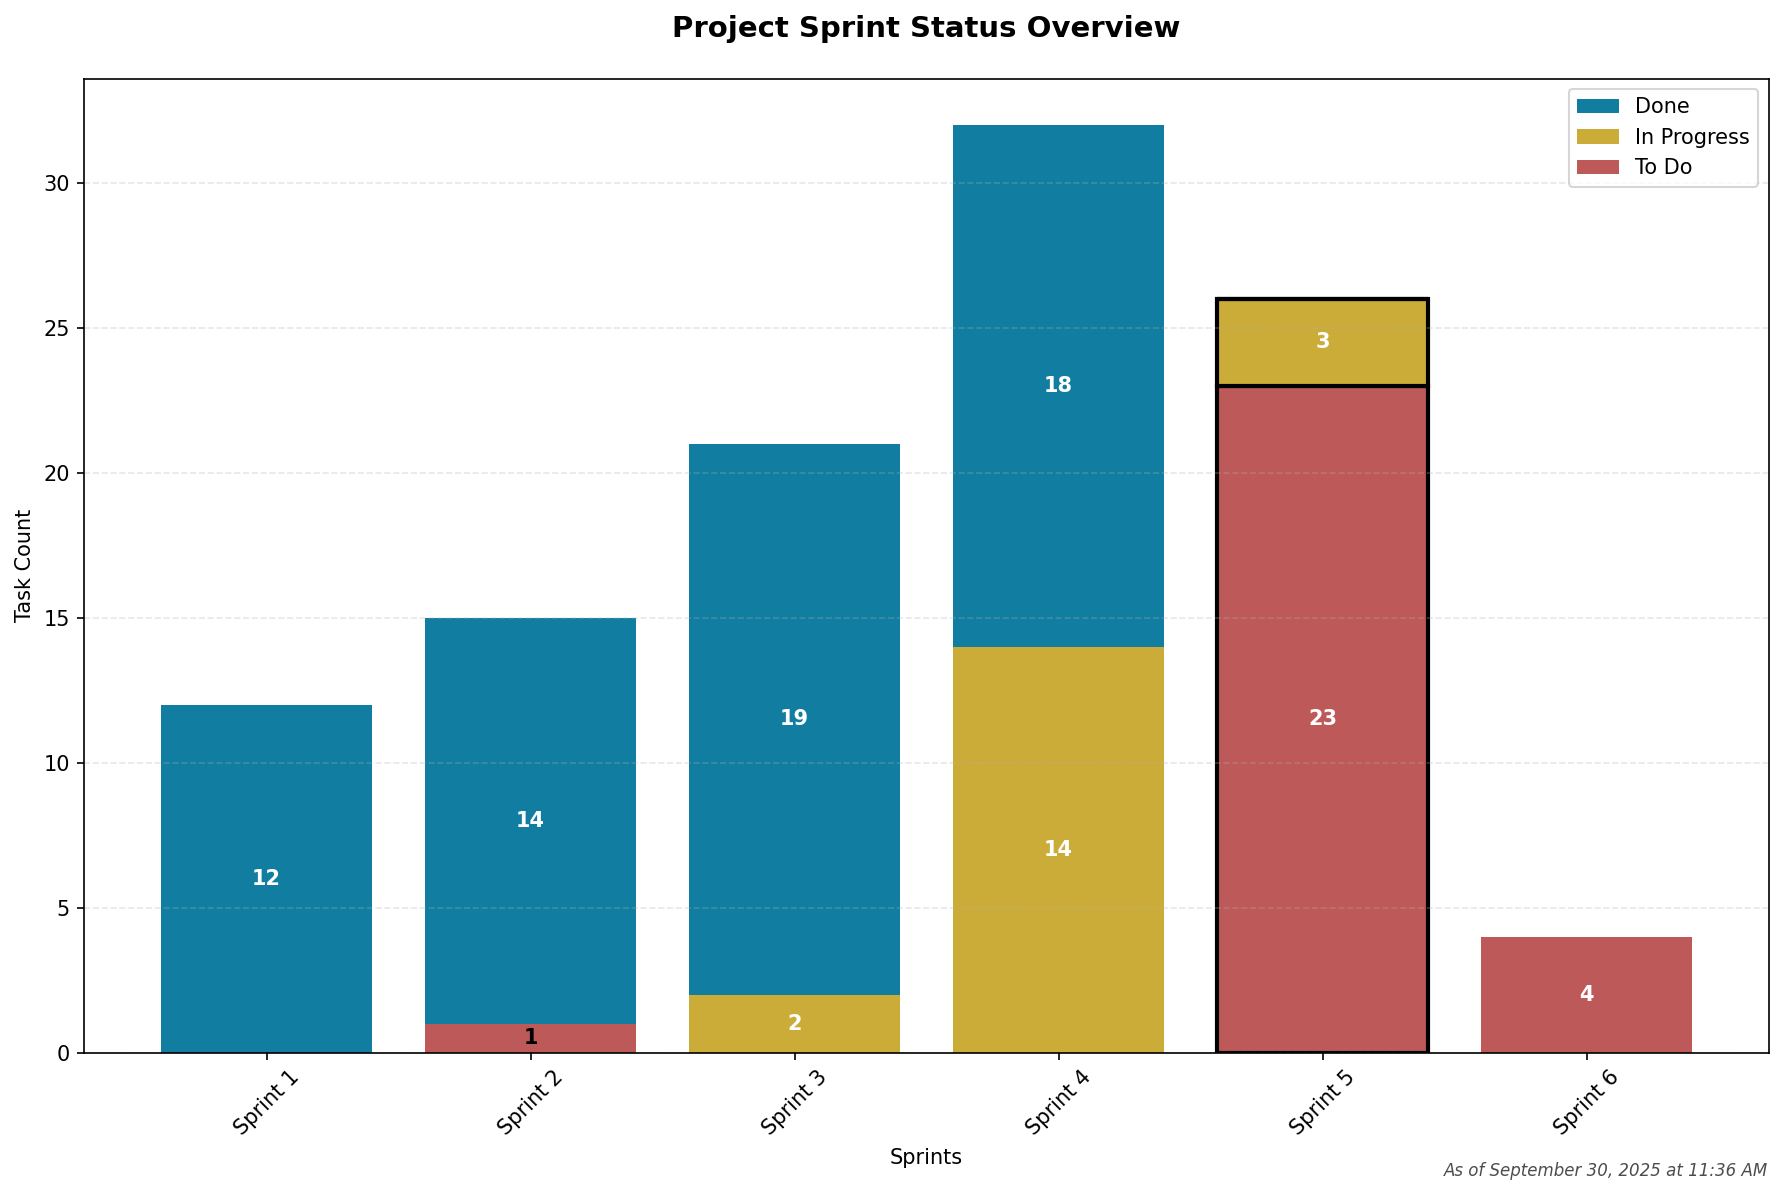
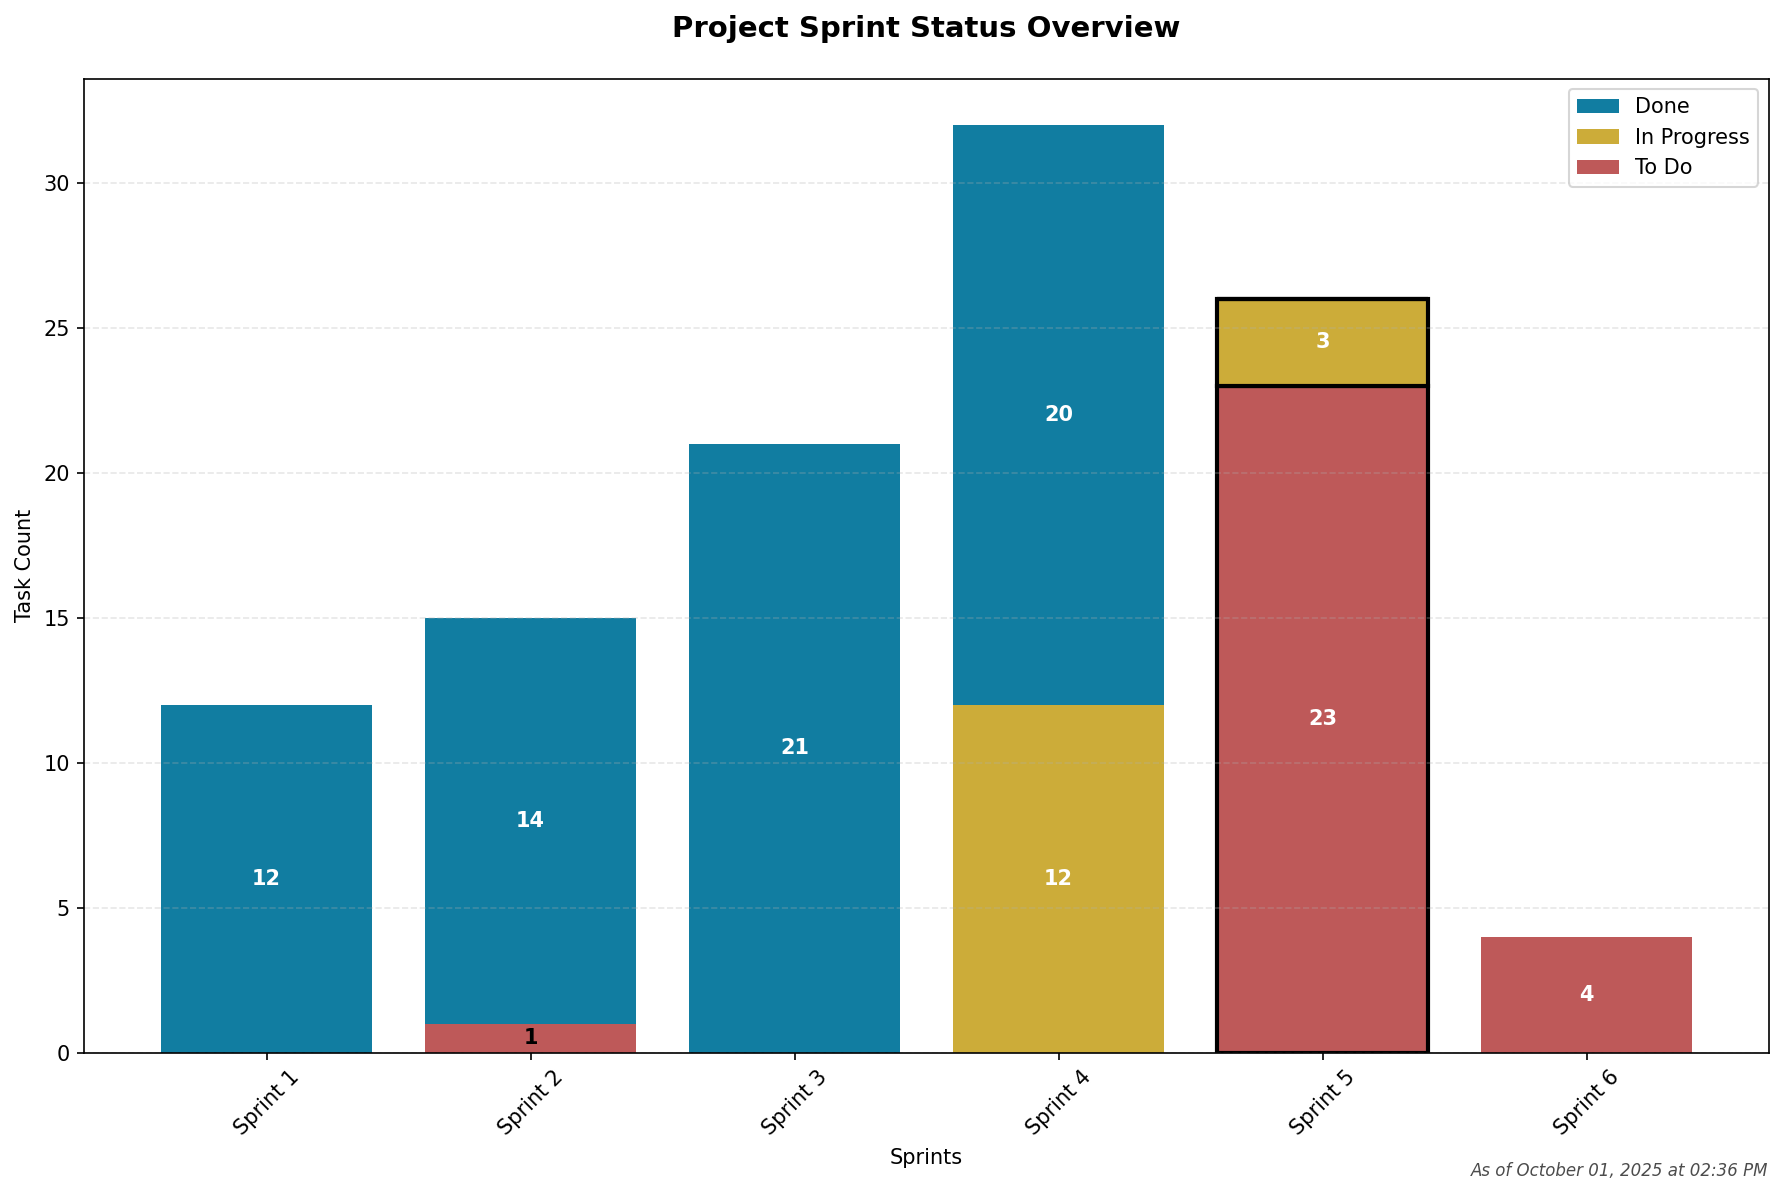
Update sprint status chart and project tracker progress
Updated the sprint_status_chart.png image and marked several tasks as completed in project_tracker.md, reflecting recent progress on data processing, quality scoring, model pipeline, and prediction storage.

diff --git a/project_tracker.md b/project_tracker.md
@@ -134,8 +134,8 @@
     - [x] Configure automated ETL scheduling (EventBridge?)
 - [x] Exploratory Data Analysis with data distribution and correlation focus
 - [x] Validate churn criteria with business stakeholders (schedule meeting)
-- [~] Test full population data processing (beyond sample validation)
-- [~] Refine data quality scoring and drift detection 
+- [x] Test full population data processing (beyond sample validation)
+- [x] Refine data quality scoring and drift detection 
 
 ### Weekly Check-In *(Sep 5 & Sep 12)*
 - **Progress Summary:** AWS Glue ETL infrastructure bagan, feature store schema set, churn logic framework in progress
@@ -174,10 +174,10 @@
     - [~] XGBoost model implementation with default parameters
     - [~] Cross-validation framework integration
     - [x] Model evaluation metrics implementation (precision, recall, F1, AUC-ROC)
-- [~] Model training and evaluation pipeline
+- [x] Model training and evaluation pipeline
     - [x] Automated data splitting with persistence for reproducibility (temporal and customer-level)
     - [x] Model performance comparison framework structure
-    - [~] Prediction storage in feature store with model versioning
+    - [x] Prediction storage in feature store with model versioning
 - [~] Initial hyperparameter optimization
     - [~] Automated hyperparameter tuning framework with feature selection
     - [~] Grid search implementation for key parameters
